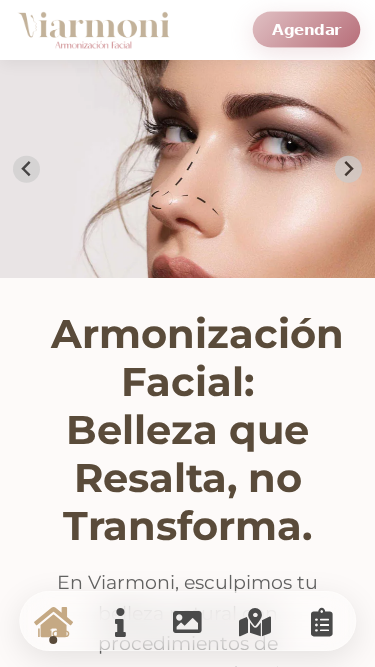
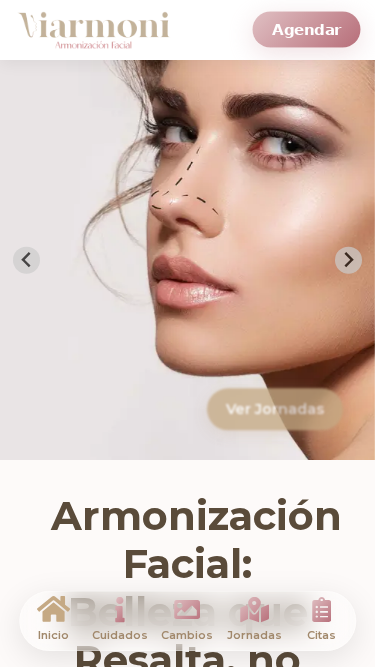
feat: Apply final UI polish and bug fixes
This commit addresses a series of user-reported issues to enhance the application's UI and UX:

1.  **Layout Correction:** Removed the internal scrollbar from the main content sections by adjusting height and overflow CSS properties. Content now flows naturally within the main page scroll area.
2.  **Button Visibility:** Increased the `z-index` of the "Ver Jornadas" button on the carousel to ensure it is always visible and clickable, preventing it from being obscured by other carousel elements.
3.  **Bottom Navigation Redesign:**
    *   **Spacing:** Corrected the text-icon overlap by removing absolute positioning and using flexbox with a `margin-bottom` on the icon to create proper spacing.
    *   **Color Scheme:** Implemented the requested color behavior. Inactive icons now feature a "rose gold" gradient, while the active icon transitions to a solid "gold" color.
    *   **Cleanup:** Removed the unnecessary decorative dot from the active navigation item for a cleaner aesthetic.

diff --git a/index.html b/index.html
@@ -142,7 +142,7 @@
             position: absolute;
             bottom: 2rem;
             right: 2rem;
-            z-index: 10;
+            z-index: 100; /* Aumentado para asegurar visibilidad sobre el carrusel */
             padding: 0.6rem 1.2rem; /* Match header button */
             font-size: 0.9rem; /* Match header button */
             background: var(--primary-gold);
@@ -265,62 +265,51 @@
             display: flex;
             flex-direction: column;
             align-items: center;
+            justify-content: center; /* Centra el contenido verticalmente */
             text-decoration: none;
             color: var(--text-dark);
             font-size: 0.75rem;
             font-weight: 500;
             transition: color 0.3s ease;
             position: relative;
-            flex: 1; /* Para que ocupen el mismo espacio */
-            padding-top: 5px; /* Pequeño ajuste visual */
-            height: 100%; /* Ocupar altura */
-            justify-content: center; /* Centrar contenido */
+            flex: 1;
+            height: 100%;
         }
 
         .bottom-nav-item i {
-            font-size: 1.8rem; /* Make icons larger */
-            margin-bottom: 0; /* Remove margin as text is hidden */
+            font-size: 1.6rem; /* Ligeramente más pequeño para dar espacio al texto */
+            margin-bottom: 4px; /* Espacio entre el icono y el texto */
             transition: all 0.3s ease;
-            color: var(--text-dark); /* Default color */
+            /* Color por defecto: Gradiente Rosa-Gold */
+            background: linear-gradient(135deg, var(--secondary-rose), var(--danger));
+            -webkit-background-clip: text;
+            background-clip: text;
+            color: transparent;
         }
         
-        /* Gold color for the active icon */
+        /* Estilo para el ícono del item activo */
         .bottom-nav-item.active i {
             color: var(--primary-gold);
-            transform: scale(1.2);
+            transform: scale(1.15);
+            background: none; /* Quitar gradiente para mostrar color sólido */
+            -webkit-background-clip: initial; /* Resetear clip */
+            background-clip: initial;
         }
 
         .bottom-nav-item span {
-            font-size: 0.75rem;
+            font-size: 0.7rem; /* Texto un poco más pequeño */
             font-weight: 600;
-            color: var(--primary-gold);
-            position: absolute;
-            bottom: 8px; /* Position it nicely */
-            left: 50%;
-            transform: translateX(-50%);
-            opacity: 0; /* Hidden by default */
-            transition: opacity 0.3s ease;
-        }
-        
-        .bottom-nav-item.active span {
-            opacity: 1; /* Show when active */
+            color: var(--accent-dark);
+            /* Ya no es absoluto, así que fluye normalmente debajo del icono */
         }
         
         .bottom-nav-item:hover i {
-            color: #8a6d50;
+            filter: brightness(1.2); /* Efecto sutil al pasar el ratón */
         }
 
+        /* Eliminamos el punto decorativo para un diseño más limpio */
         .bottom-nav-item.active::after {
-            content: '';
-            position: absolute;
-            bottom: 6px; /* Posicionado en la parte inferior */
-            left: 50%;
-            transform: translateX(-50%);
-            width: 8px; /* Un punto sutil */
-            height: 8px;
-            background-color: #5a4b3a; /* Mismo color que el texto activo */
-            border-radius: 50%;
-            animation: popIn 0.3s ease;
+            content: none;
         }
         
         /* Oculta los iconos de Font Awesome si no están cargados */
@@ -337,9 +326,8 @@
         
         .fullscreen-section {
             display: none; /* Oculto por defecto */
-            height: 100%; /* Ocupa la altura del contenedor 'main' */
+            /* height: 100%; /* <-- Eliminado para permitir que el contenido defina la altura */
             position: relative;
-            /* overflow: hidden; <--- Eliminado para permitir scroll del container hijo */
             flex-direction: column;
         }
 
@@ -350,11 +338,10 @@
         
         /* El container dentro de una sección de pantalla completa */
         .fullscreen-section > .container {
-            overflow-y: auto; /* Permite scroll INTERNO si el contenido es muy largo */
-            flex-grow: 1; /* Ocupa el espacio restante */
+            /* overflow-y: auto; /* <-- Eliminado para usar el scroll principal de la página */
+            /* flex-grow: 1; /* <-- Eliminado */
             padding-top: 2rem;
             padding-bottom: 2rem;
-            /* Para que el scroll interno respete los paddings */
         }
 
         /* --- 5.1 Sección Principal (Hero) --- */

diff --git a/verify_ui.py b/verify_ui.py
@@ -2,26 +2,31 @@
 import os
 from playwright.sync_api import sync_playwright
 
-def run():
+def verify_ui_changes():
     with sync_playwright() as p:
         browser = p.chromium.launch(headless=True)
-        page = browser.new_page()
+        # Set a mobile viewport to ensure the bottom navigation is visible
+        context = browser.new_context(
+            viewport={'width': 375, 'height': 667},
+            is_mobile=True,
+            user_agent='Mozilla/5.0 (iPhone; CPU iPhone OS 13_5 like Mac OS X) AppleWebKit/605.1.15 (KHTML, like Gecko) Version/13.1.1 Mobile/15E148 Safari/604.1'
+        )
+        page = context.new_page()
 
-        # Get the absolute path to the HTML file
+        # Get the absolute path to the index.html file
+        # The script is expected to run from the repository root
         file_path = os.path.abspath('index.html')
 
+        # Navigate directly to the local HTML file
         page.goto(f'file://{file_path}')
 
-        # Set a mobile viewport to ensure the bottom navigation is visible
-        page.set_viewport_size({'width': 375, 'height': 667})
+        # Give the page a moment to ensure all styles are applied
+        page.wait_for_timeout(1000)
 
-        # Wait for the page to load completely
-        page.wait_for_load_state('networkidle')
-
-        # Take a screenshot of the bottom navigation
+        # Take a screenshot of the entire page
         page.screenshot(path='verification.png')
 
         browser.close()
 
-if __name__ == '__main__':
-    run()
+if __name__ == "__main__":
+    verify_ui_changes()
